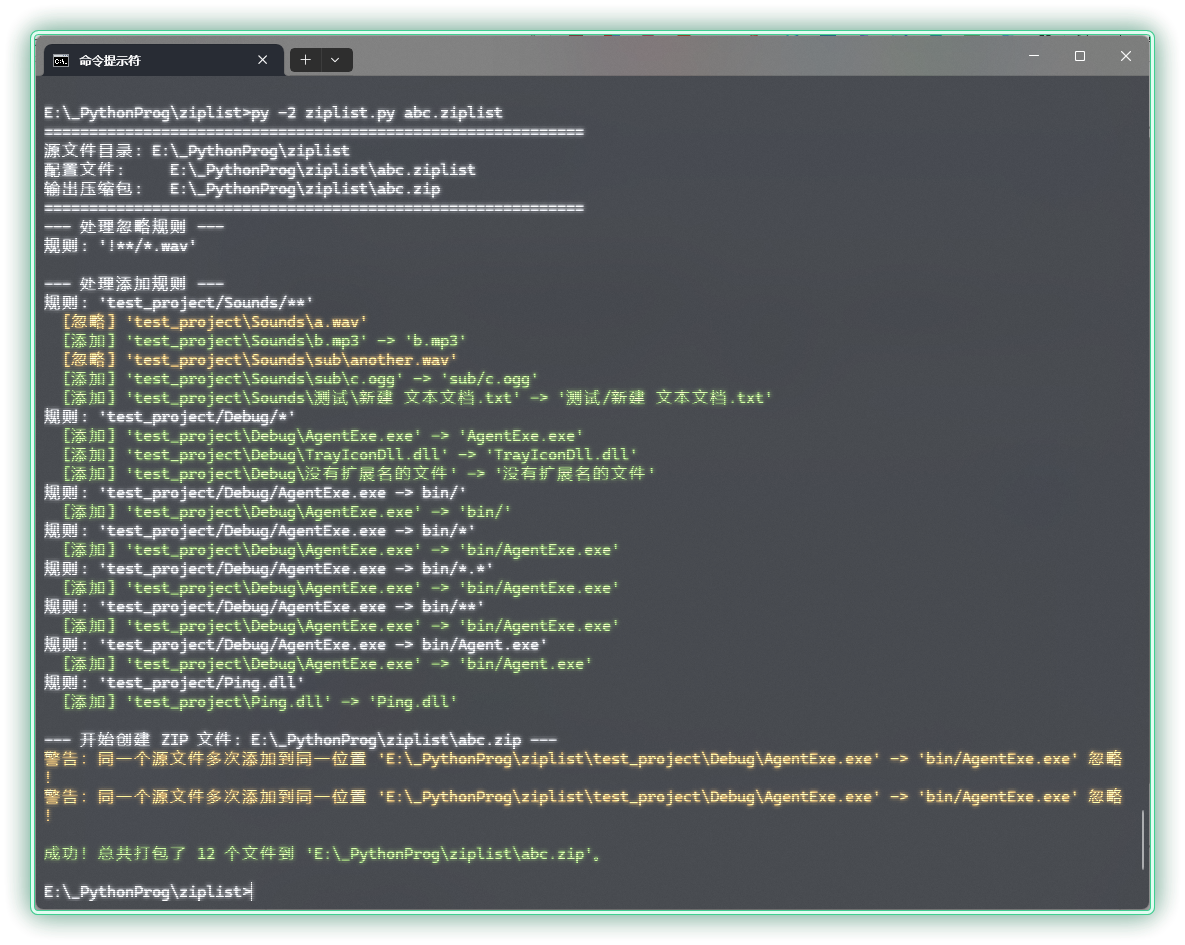
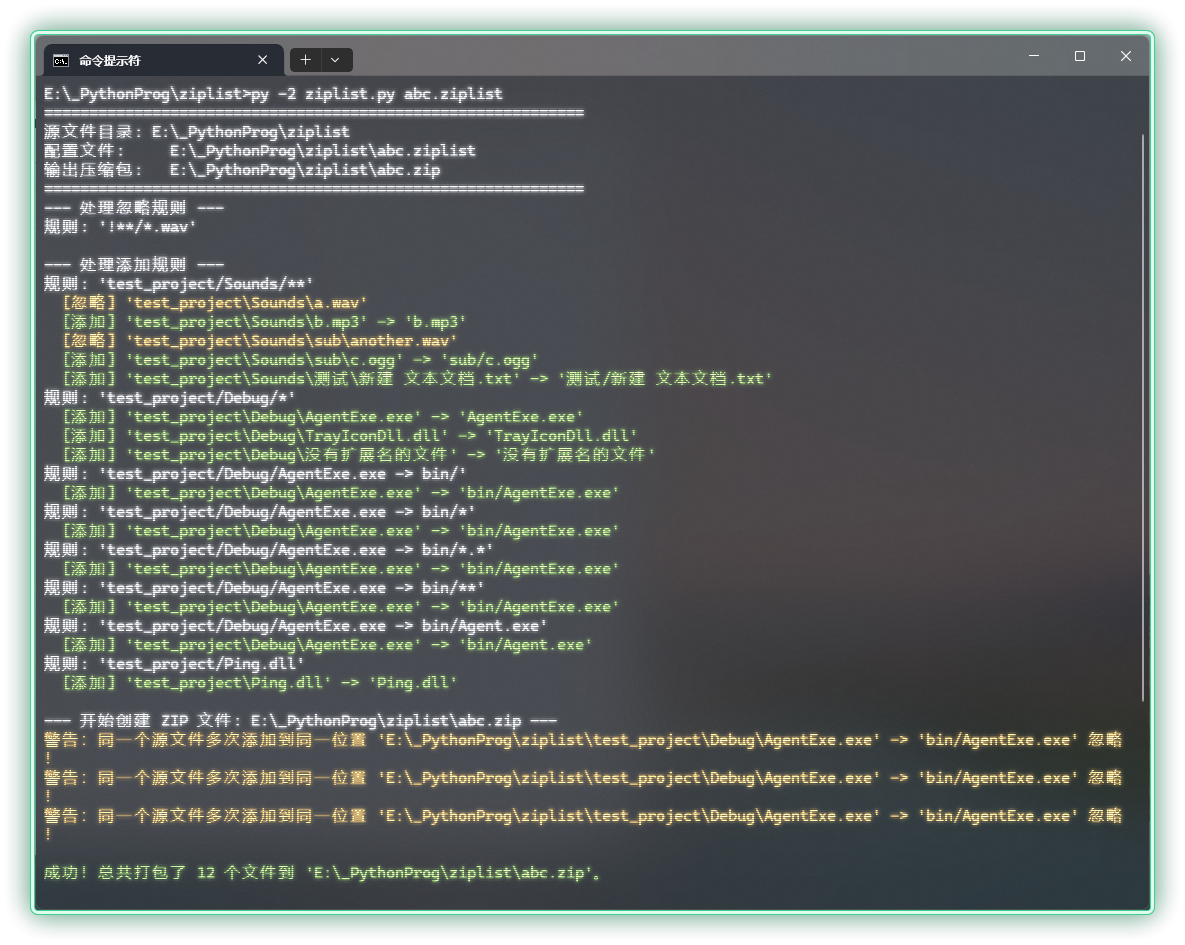
修正检测“同一个源文件多次添加到同一位置”的一个漏检bug

Changed region(s): [[0.0312, 0.0921, 0.9679, 0.982]]

diff --git a/ziplist.py b/ziplist.py
@@ -5,7 +5,6 @@ import os
 import time
 import glob
 import zipfile
-import shutil
 import argparse
 import io  # For Python 2.7 compatible open with encoding
 import fnmatch  # For glob recursive backport
@@ -111,7 +110,7 @@ def calculate_arcname(relative_found_path, source_pattern, dest_pattern):
         else:
             # 规则: Debug/Agent.exe -> Release/*
             # 重命名路径，文件名不变。
-            if dest_pattern.endswith(os.sep) or dest_pattern.endswith('*'):
+            if dest_pattern.endswith('/') or dest_pattern.endswith('\\') or dest_pattern.endswith('*'):
                 dest_parent_dir = dest_pattern.rstrip('*.')
                 file_name = os.path.basename(relative_found_path)
                 arcname = os.path.join(dest_parent_dir, file_name)
